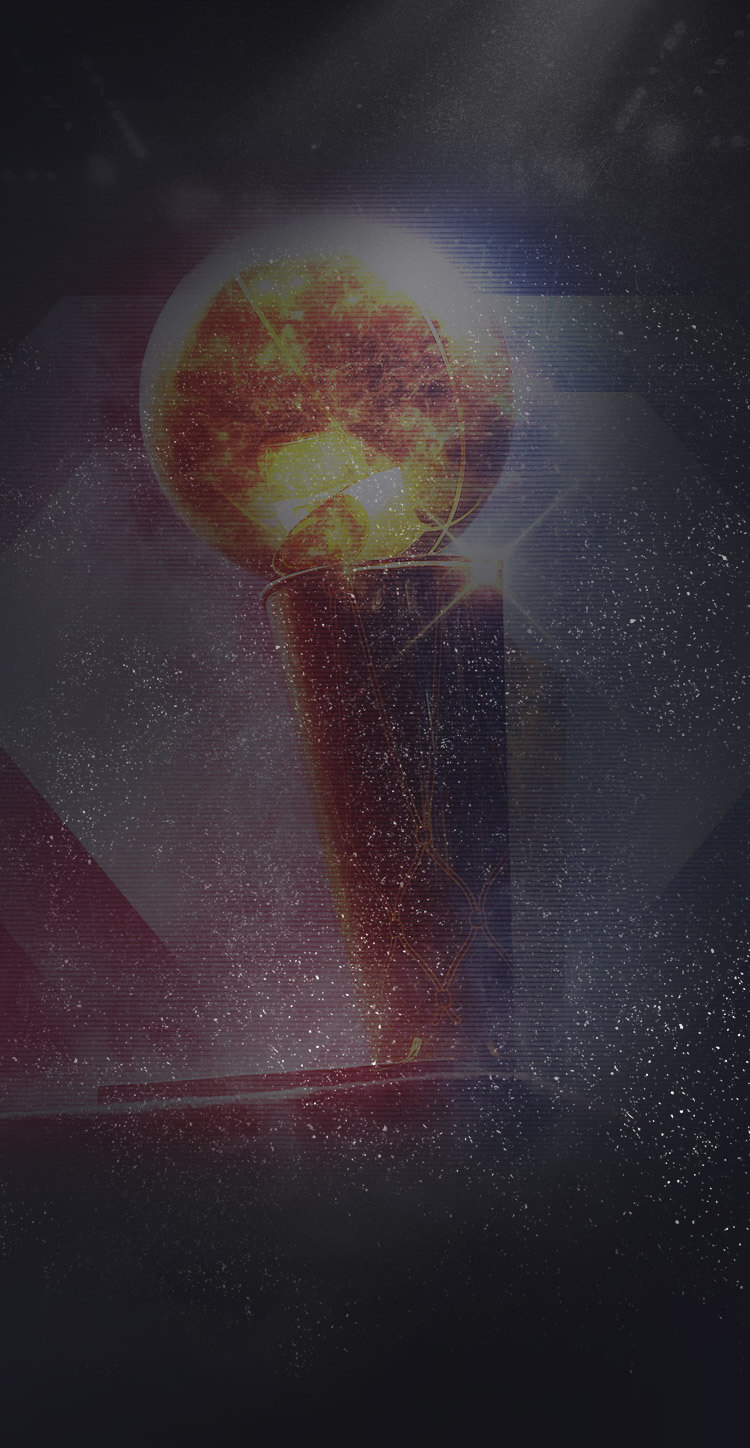
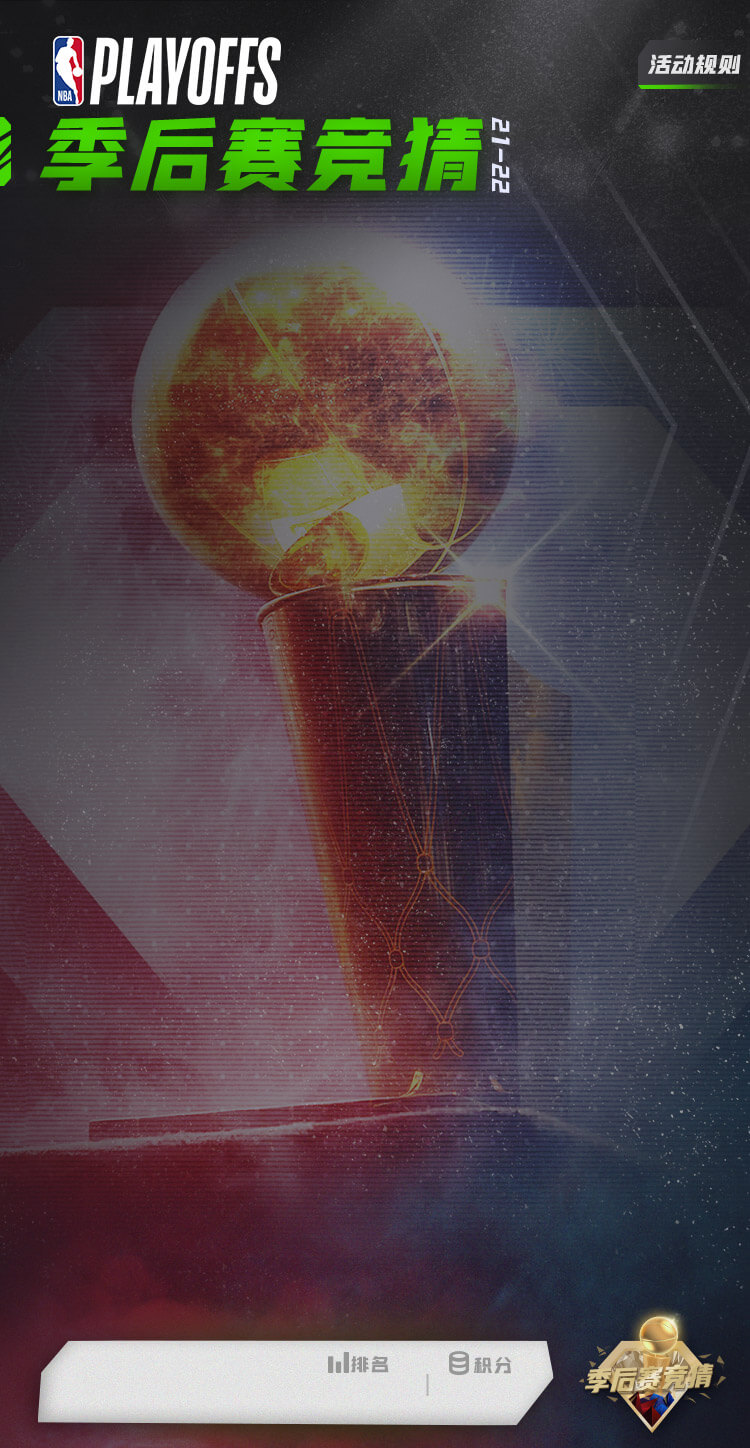
feat:home

diff --git a/src/pages/home/index.vue b/src/pages/home/index.vue
@@ -1,16 +1,128 @@
 <template>
-  <div class="container">{{ text }}</div>
+  <div class="container">
+    <main class="center">
+      <div class="mainbody">
+        <div class="mainbody-item">
+          <img src="@assets/images/home_1.png" alt="" />
+        </div>
+        <div class="mainbody-item">
+          <img src="@assets/images/home_2.jpg" alt="" />
+        </div>
+        <div class="mainbody-item">
+          <img src="@assets/images/home_3.png" alt="" />
+        </div>
+        <div class="mainbody-item">
+          <img src="@assets/images/home_4.jpg" alt="" />
+        </div>
+      </div>
+    </main>
+    <footer class="footer">
+      <div class="user">
+        <div class="user-avatar">
+          <van-image round width="1.21rem" height="1.22rem" src="https://cdn.jsdelivr.net/npm/@vant/assets/cat.jpeg" />
+        </div>
+      </div>
+      <div class="name">哈哈哈哈哈</div>
+      <div class="ranking">1232</div>
+      <div class="points">1223</div>
+    </footer>
+  </div>
 </template>
 
 <script lang="ts" setup>
-import { ref } from 'vue'
+// import { ref } from 'vue'
 
-const text = ref('111')
+// const text = ref('111')
+</script>
+
+<script lang="ts">
+import { Image as VanImage } from 'vant'
+import { defineComponent } from 'vue'
+
+export default defineComponent({
+  name: 'LoginPopup',
+  components: {
+    [VanImage.name]: VanImage
+  }
+})
 </script>
 <style lang="scss" scoped>
 .container {
-  min-height: 100vh;
   position: relative;
+  min-height: 100vh;
+  background: url('@assets/images/home_bg.jpg') no-repeat;
+  background-size: 100%;
   overflow: hidden;
+  .center {
+    height: 100%;
+    .mainbody {
+      height: 1080px;
+      padding: 0 30px;
+      display: flex;
+      justify-content: space-between;
+      flex-wrap: wrap;
+      margin-top: 220px;
+      &-item {
+        width: 340px;
+        height: 520px;
+        margin-top: 10px;
+        vertical-align: middle;
+        img {
+          width: 100%;
+          height: 100%;
+        }
+      }
+    }
+  }
+  .footer {
+    height: 100px;
+    width: 530px;
+    display: flex;
+    margin-top: 20px;
+    font-weight: 500;
+    .user {
+      width: 150px;
+      &-avatar {
+        flex: 1;
+        width: 100px;
+        height: 100px;
+        background-color: pink;
+        border-radius: 50%;
+        border: 5px solid #6bab39;
+        box-sizing: border-box;
+        margin-left: 36px;
+        box-shadow: 0 0 5px #6bab39;
+      }
+    }
+    .name {
+      width: 150px;
+      height: 110px;
+      line-height: 120px;
+      font-size: 26px;
+      font-weight: 700;
+    }
+
+    .ranking {
+      flex: 1;
+      height: 120px;
+      text-align: center;
+      font-size: 32px;
+      line-height: 154px;
+      color: #6bab39;
+    }
+    .points {
+      flex: 1;
+      height: 120px;
+      text-align: center;
+      font-size: 32px;
+      line-height: 154px;
+      margin-left: 18px;
+      color: #6bab39;
+    }
+
+    // position: absolute;
+    // bottom: 20px;
+    // left: 30px;
+  }
 }
 </style>

diff --git a/vite.config.ts b/vite.config.ts
@@ -1,5 +1,5 @@
 import type { ConfigEnv, UserConfigExport } from 'vite'
-import { defineConfig } from 'vite'
+import { defineConfig, loadEnv } from 'vite'
 import vue from '@vitejs/plugin-vue'
 import styleImport from 'vite-plugin-style-import'
 import viteCompression from 'vite-plugin-compression'
@@ -11,8 +11,7 @@ const resolve = (name: string): string => path.resolve(__dirname, name)
 
 export default ({ command, mode }: ConfigEnv): UserConfigExport => {
   return defineConfig({
-    // base: loadEnv(mode, process.cwd()).VITE_APP_PATH,
-    base: '/newyear/',
+    base: loadEnv(mode, process.cwd()).VITE_APP_PATH,
     plugins: [
       vue(),
       styleImport({

diff --git a/src/routes/index.ts b/src/routes/index.ts
@@ -1,6 +1,6 @@
-import { createRouter, createWebHashHistory, RouteRecordRaw } from 'vue-router'
+import { createRouter, createWebHistory, RouteRecordRaw } from 'vue-router'
 
-const history = createWebHashHistory()
+const history = createWebHistory()
 
 const routes: RouteRecordRaw[] = [
   {
@@ -8,7 +8,7 @@ const routes: RouteRecordRaw[] = [
     name: 'Home',
     component: (): Promise<typeof import('*.vue')> => import('@pages/home/index.vue'),
     meta: { title: '首页', keepAlive: true }
-  },
+  }
 ]
 //
 const router = createRouter({
